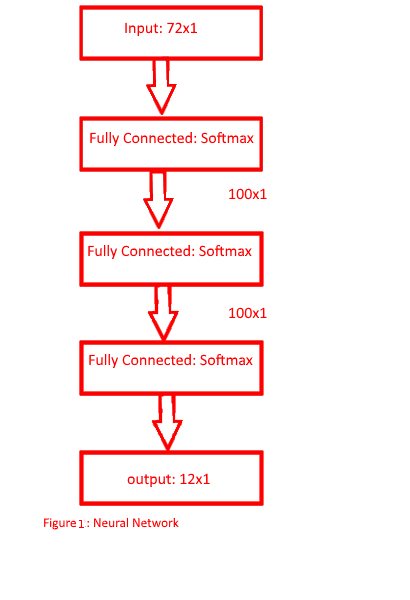
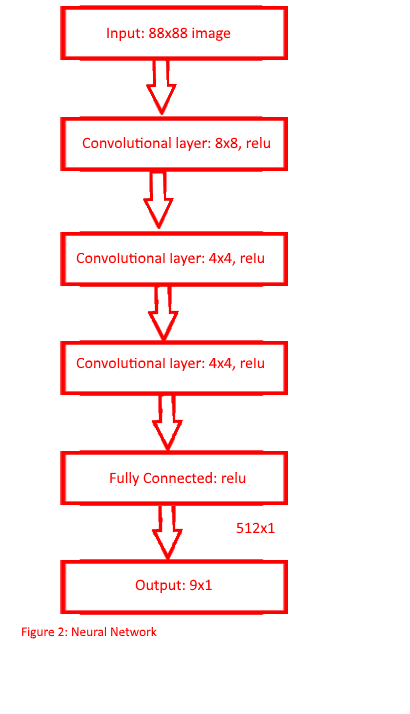
updated winter project

Changed region(s): [[0.0585, 0.0, 0.7024, 0.9]]

diff --git a/_includes/services.html b/_includes/services.html
@@ -41,9 +41,10 @@
 
               <ul style="list-style-type:none;text-align: left">
               <li>Artificial Intelligence</li>
+              <li>Machine Learning</li>
               <li>Computer Vision</li>
-              <li>Git</li>
               <li>ROS</li>
+              <li>Git</li>
 
               </ul>
 
@@ -63,9 +64,9 @@
               </h4>
               <ul style="list-style-type:none;text-align: left">
               <li>Sensors</li>
-              <li>Digital/Analogue electronics</li>
+              <li>Digital/Analog electronics</li>
               <li>Embedded systems</li>
-              <li>Controls</li>
+              <li>Control systems</li>
               <li>FPGA</li>
               </ul>
 

diff --git a/projects/winterproject.md b/projects/winterproject.md
@@ -32,22 +32,10 @@ The goal of this project is to create an agent that can successfully play Super 
  In 2013 Google's deep mind published a paper describing how they created an agent that was able to successful replicate human level play in Atari 2600 games using a method called deep Q learning. Deep Q learning (DQN) is a technique that combines the reinforcement learning method of Q-learning with the power of a neural network. This project utilizes the same DQN algorithm albeit with a simplified neural network.
 
 
- The Deep Q network will receive the current state of the emulator. The state of the game consists of the following pieces of data:
-
-     1. Mario's x position
-     2. Mario's y position
-     3. If Mario has collided with an enemy
-     4. If Mario is currently on the ground
-     5. The number of enemies on the screen from 0-10
-     6. x positions of up to 10 enemies
-     7. Y positions of up to 10 enemies
-     8. X velocities of up to 10 enemies
-     9. Y velocities of up to 10 enemies
-
- This information is extracted from the games registers in lsnes's built-in Lua compiler machine and sent as an array over a port opened by Zeromq between the Lua and Python scripts. This creates a 72x1 array that is then passed into the neural network represented in the picture in figure 2.
+ The Deep Q network will receive the current state of the emulator. The state of the game consists of a screen capture of the play area. This image is then converted to an HSV color representation and resized to be an 88x88 image. The newly resized image is then ran through the convolutional neural network represented in figure 2.
  <img src="./proj/Winter/NN.png" width="370" style="float: right;margin-right:auto; margin-right:auto;padding: 10px;"/>
 
- The neural network used in this project was simplified from the convoluted neural network used in the deep mind paper. The network used consists of three fully connected layers with 100 nodes and Softmax activation. Passing the state information through the neural network results in the networks estimation of the maximum future reward at the end of the game for each of the nine possible button commands (do nothing, left, right, up, down, jump, spin jump, jump right, spin jump right) from here forward these values will be referred to as Q-values. The system is given a small positive reward of +1 for increasing the game score, Which is achieved by killing enemies or collecting coins. A large positive reward of +100 is given for reaching the end of a level. A large negative reward of -100 is given to the system for dying and a small negative reward of -1 is given for any other action. Giving this constant negative reward will prevent the agent from remaining in one area and will ultimately prevent it from dying due to  running out of time in a level.
+ The neural network used in this project has the same setup as the  convolutional neural network used in the deep mind paper. The network consists of three convolutional layers with window sizes of 8x8,4x4, and 4x4 and a fully connected layers with 512 nodes along with and relu activation on all layers.Passing the state information through the neural network results in the networks estimation of the maximum future reward at the end of the game for each of the nine possible button commands (do nothing, left, right, up, down, jump, spin jump, jump right, spin jump right) from here forward these values will be referred to as Q-values. The system is given a small positive reward of +1 for increasing the game score, Which is achieved by killing enemies or collecting coins. A large positive reward of +100 is given for reaching the end of a level. A large negative reward of -100 is given to the system for dying and a small negative reward of -1 is given for any other action. Giving this constant negative reward will prevent the agent from remaining in one area and will ultimately prevent it from dying due to  running out of time in a level.
  As per the DQN algorithm the next action performed is the one that has the highest Q-value or it is randomly selected. Allowing for random actions will let the agent more fully explore the possible options. The chosen action would then be performed on the emulator, after 50 frames of the action being repeated. The resulting state is stored along with the reward gained the actions effect, and whether the emulator has died or reached the end of the level.
 
  To train the neural network a method called experience replay is used. Experience replay takes a random sample of the agents experiences which are defined by an array containing the following information:
@@ -67,9 +55,10 @@ By replaying the level multiple times the program will gain a multitude of diffe
 
 &nbsp;
 
-# Future work on this project
+# Expansion of this project
 
-In the future I want to expand the neural network to accept a simple image representation of the ground and blocks, Mario's current position, and enemy/ coin positions in the visible portion of the screen. As well as the information currently provided to the neural network. By adding in the image representation this will give the neural network a more complete information about the current state of the game which will allow for more accurate Q-values.
+I have created a slightly modified agent to accommodate other 2D side scrolling video games namely the Atari games mentioned in the "Playing Atari with Deep Reinforcement Learning" paper. The modified agent uses the Atari games included in the AI gym reinforcement learning package which uses the games score to determine a reward. Outside of modifications to the reward system the rest of the algorithm remains the same. Currently the modified agent plays space invaders.
+
 
 Link to the projects github repository
 
